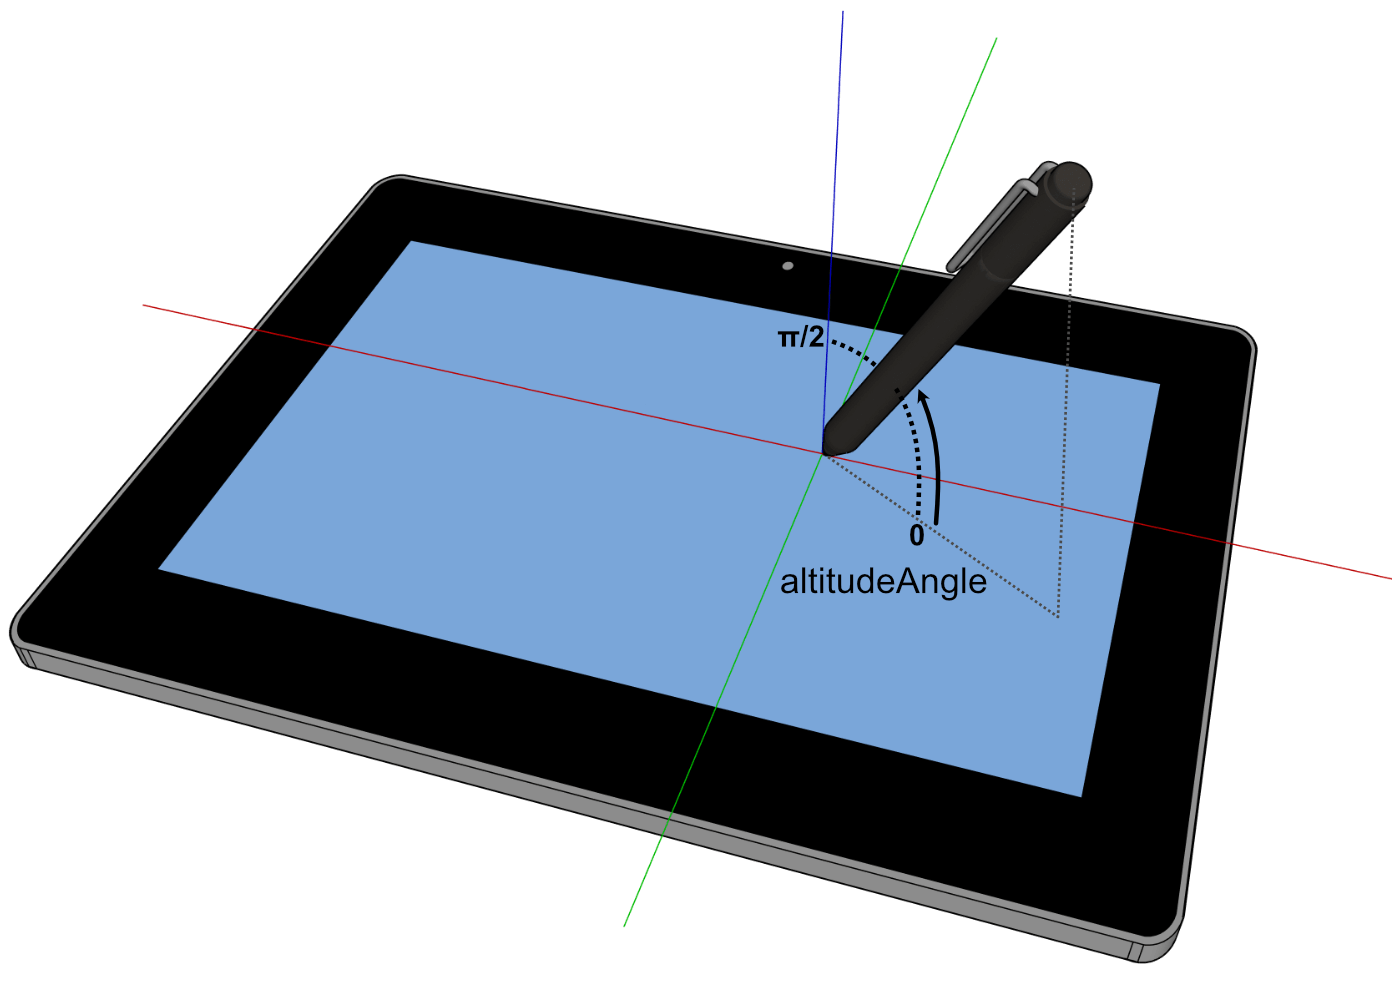
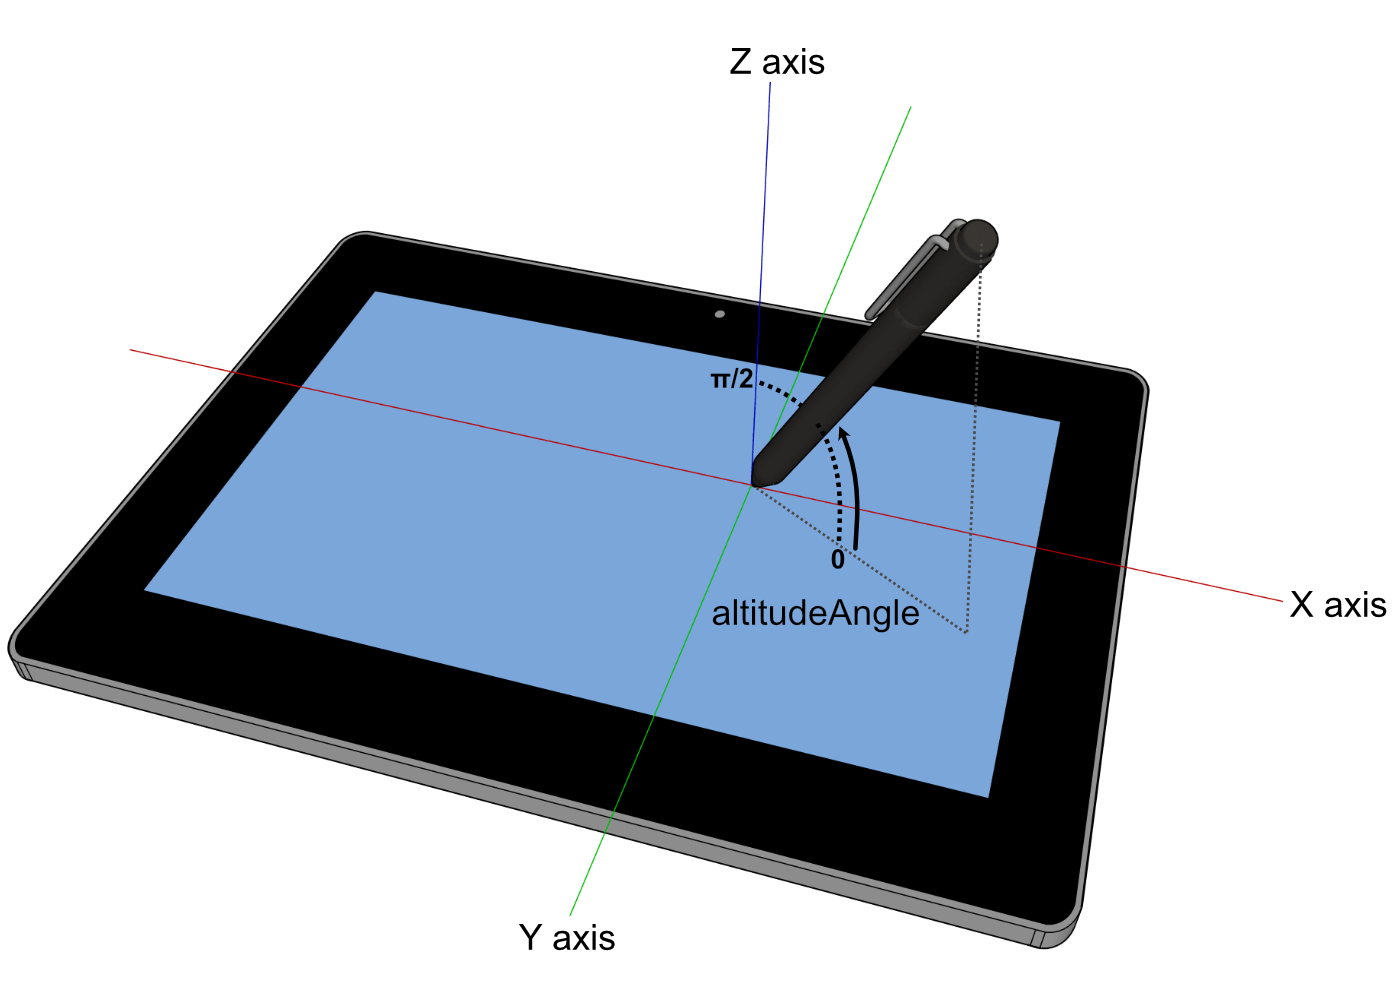
[pointerevents-3] https://github.com/w3c/pointerevents/commit/1ea900e7f2b0fa0a0d00ec94e2e30d5343b7f3b3 Add labels to axes in altitudeAngle/azimuthAngle diagrams

diff --git a/pointerevents3-ja.html b/pointerevents3-ja.html
@@ -114,7 +114,7 @@ return text;
 
 ●●options
 spec_title:Pointer Events Level 3
-spec_date:2021-12-07
+spec_date:2021-12-09
 trans_update:2021-12-09
 source_checked:211206
 page_state_key:UIEVENTS
